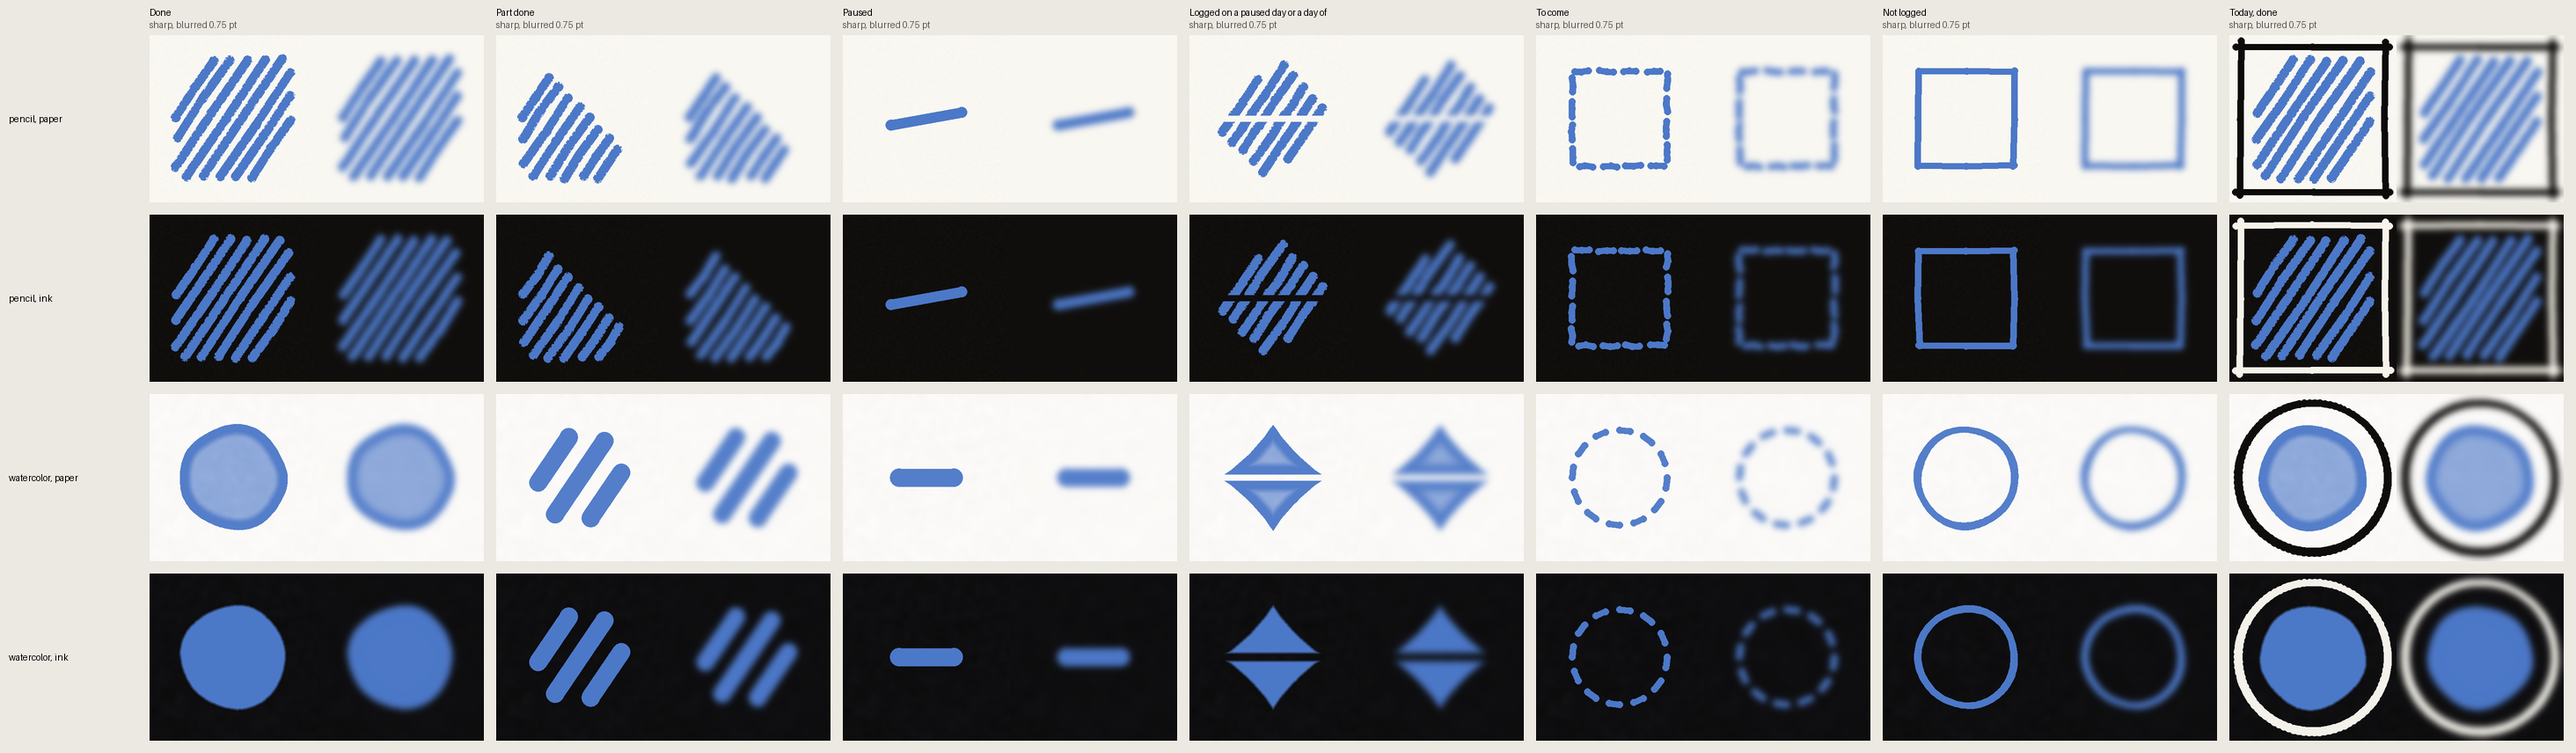
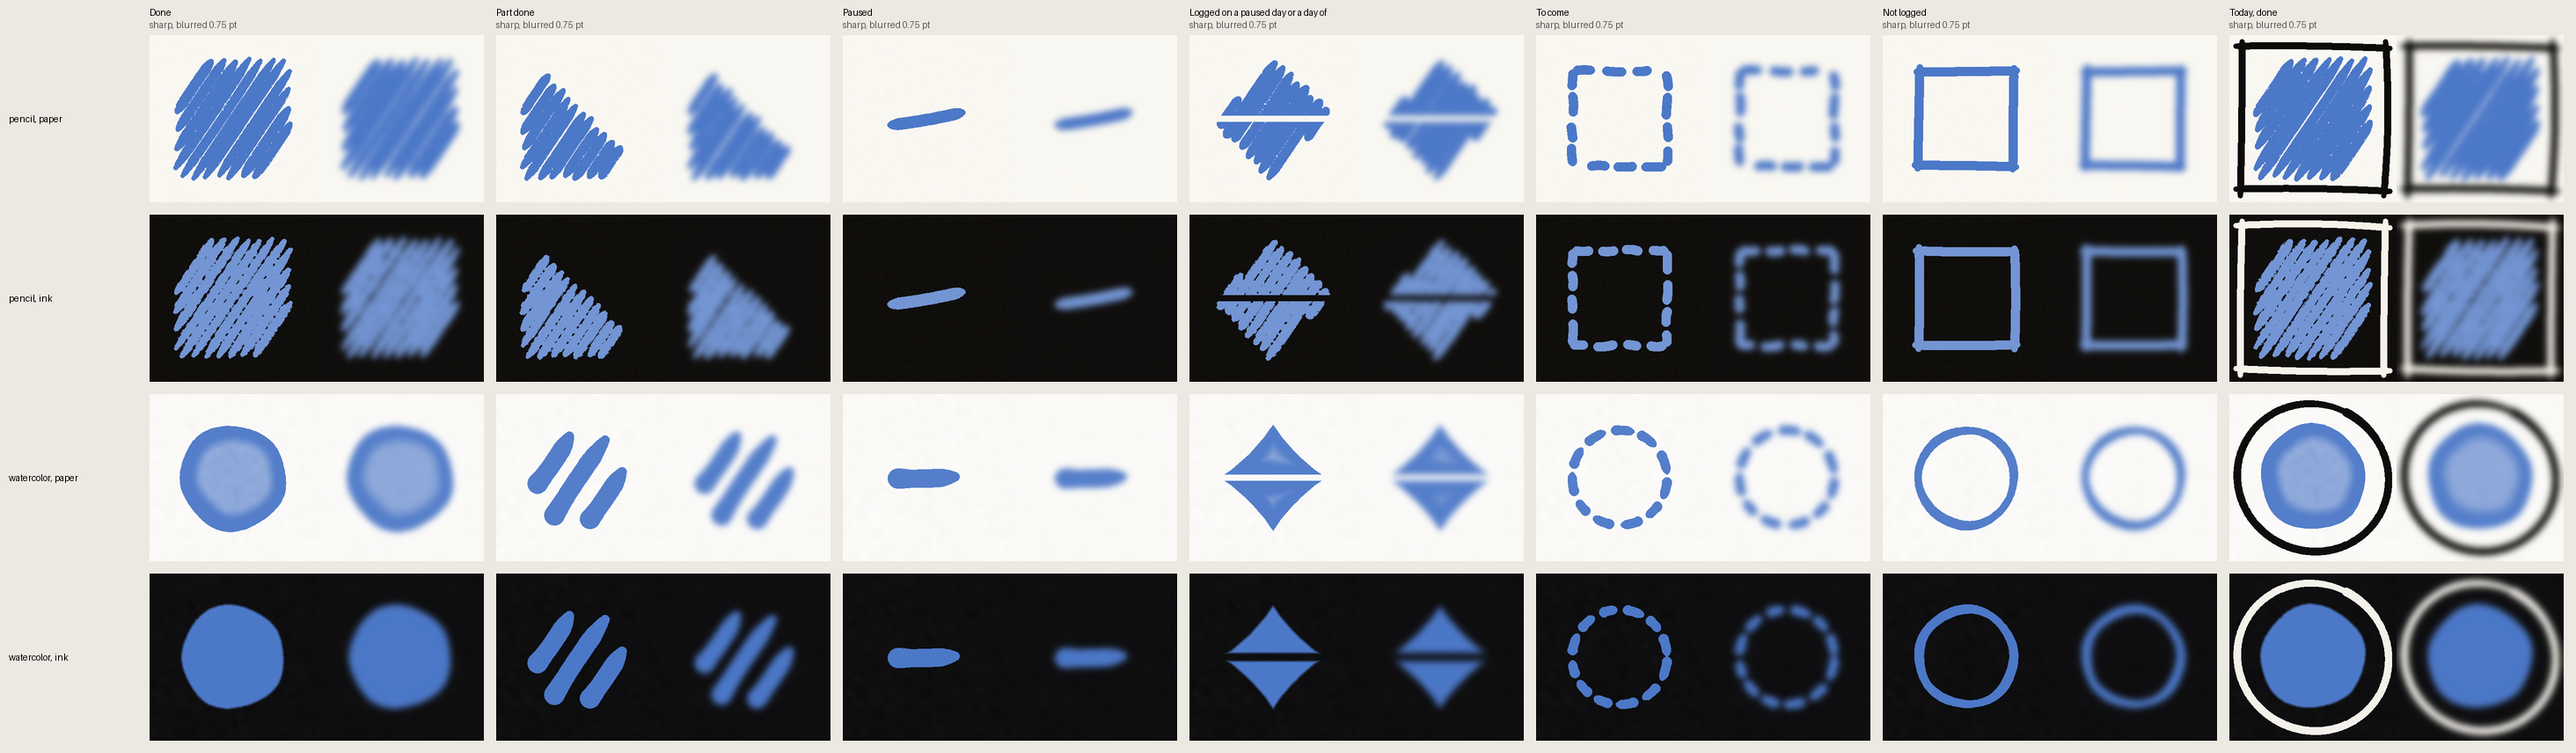
Second drawing of the full-size marks after both reviews
Pencil strokes touch and taper, Ink uses a lighter pencil with specks,
the Watercolor rim varies and grades into the wash, brush strokes pool
and lift. Adds blurred contrast, the today outline, ochre, yellow and
red to the measurements.

Claude-Session: https://claude.ai/code/session_012NdevCAvT4U8qS7nMJ64YM

diff --git a/tools/marks/full_marks.py b/tools/marks/full_marks.py
@@ -28,6 +28,19 @@ def mask(draw_fn):
     im = Image.new("L", (N, N), 0); draw_fn(ImageDraw.Draw(im)); return np.asarray(im, float) / 255
 def P(x, y): return (C + x * S, C + y * S)          # points from the centre of the mark, to pixels
 def line(d, x0, y0, x1, y1, w): d.line([P(x0, y0), P(x1, y1)], fill=255, width=max(1, round(w * S))); r = w * S / 2; [d.ellipse([px - r, py - r, px + r, py + r], fill=255) for px, py in (P(x0, y0), P(x1, y1))]
+def stamp(d, pts, width_at, steps=60):
+    """A stroke along a three-point path. width_at(t) gives its width in points, t from 0 to 1."""
+    (x0, y0), (x1, y1), (x2, y2) = pts
+    for i in range(steps + 1):
+        t = i / steps; x = (1 - t) ** 2 * x0 + 2 * t * (1 - t) * x1 + t * t * x2; y = (1 - t) ** 2 * y0 + 2 * t * (1 - t) * y1 + t * t * y2
+        r = width_at(t) * S / 2; px, py = P(x, y); d.ellipse([px - r, py - r, px + r, py + r], fill=255)
+def bowed(x0, y0, x1, y1, bow):
+    nx, ny = -(y1 - y0), x1 - x0; L = math.hypot(nx, ny) or 1
+    return [(x0, y0), ((x0 + x1) / 2 + nx / L * bow * 2, (y0 + y1) / 2 + ny / L * bow * 2), (x1, y1)]
+def taper(w, lo=0.45, run=0.14):          # a pencil stroke: thin where it lands and where it lifts
+    return lambda t: w * (lo + (1 - lo) * min(1, t / run, (1 - t) / run) ** 0.7)
+def brush(w):                              # a brush stroke: pooled where it starts, lifted where it ends
+    return lambda t: w * (1.12 - 0.12 * min(1, t / 0.2)) * (1 if t < 0.72 else 1 - 0.5 * ((t - 0.72) / 0.28) ** 1.5)
 def poly(d, pts): d.polygon([P(x, y) for x, y in pts], fill=255)
 H = SIZE / 2
 SQUARE = [(-H, -H), (H, -H), (H, H), (-H, H)]
@@ -35,6 +48,7 @@ LOWER = [(-H, -H), (-H, H), (H, H)]
 DIAMOND = [(0, -H), (H, 0), (0, H), (-H, 0)]
 CUT = 1.25
 tooth = gaussian_filter(rng.random((N, N)), 1.2); tooth = (tooth - tooth.min()) / (tooth.max() - tooth.min())
+speck = gaussian_filter(rng.random((N, N)), 2.6); speck = (speck - speck.min()) / (speck.max() - speck.min())   # charcoal specks, about half a point across
 dimple = gaussian_filter(rng.random((N, N)), 6); dimple = (dimple - dimple.min()) / (dimple.max() - dimple.min())
 
 # ---------- Pencil ----------
@@ -54,13 +68,13 @@ def clip_line(px, py, dx, dy, pts):
         else: t1 = min(t1, t)
     return (t0, t1) if t1 - t0 > 0.4 else None
 
-def pencil_strokes(shapes, n=8, cut=False):
+def pencil_strokes(shapes, n=11, cut=False):
     """Parallel strokes at 56 degrees, each drawn by hand: a little bowed, uneven in length, ends 1 to 2 points past the shape.
 
     Returns (alpha, core). The core is the solid middle of every stroke, at least 1.5 points wide.
     """
     dx, dy, nx, ny = math.cos(TH), -math.sin(TH), math.sin(TH), math.cos(TH)
-    pitch = SIZE * 1.06 / n; w = pitch / 1.5; core_w = max(1.5, w * 0.78)       # the gap is half a stroke, never wider than a stroke
+    pitch = SIZE * 1.04 / n; w = pitch; core_w = max(1.5, w * 0.8)              # strokes touch, so done blurs to a solid; the eroded edges still show each stroke
     segs = []
     for k in range(n):
         o = (k - (n - 1) / 2) * pitch + (rng.random() - 0.5) * 0.3; px, py = nx * o, ny * o
@@ -69,43 +83,43 @@ def pencil_strokes(shapes, n=8, cut=False):
             if not r: continue
             a, b = r[0] - 1 - rng.random(), r[1] + 1 + rng.random()             # the ends run 1 to 2 points past the shape
             bow = (rng.random() - 0.5) * 0.7; mid = (a + b) / 2
-            segs.append([(px + dx * a, py + dy * a), (px + dx * mid + nx * bow, py + dy * mid + ny * bow), (px + dx * b, py + dy * b)])
+            segs.append(([(px + dx * a, py + dy * a), (px + dx * mid + nx * bow, py + dy * mid + ny * bow), (px + dx * b, py + dy * b)], 0.92 + rng.random() * 0.16))
     def draw(width):
-        return mask(lambda d: [line(d, *q[0], *q[1], width) or line(d, *q[1], *q[2], width) for q in segs])
+        return mask(lambda d: [stamp(d, q, taper(width * press)) for q, press in segs])
     full, core = draw(w), draw(core_w)
     if cut:
         gap = 1 - mask(lambda d: poly(d, [(-H * 2, -CUT / 2), (H * 2, -CUT / 2), (H * 2, CUT / 2), (-H * 2, CUT / 2)])); full, core = full * gap, core * gap
-    edge = np.clip(full - core, 0, 1) * (tooth > 0.42)                          # the tooth erodes the edges only
+    edge = np.clip(full - core, 0, 1) * (tooth > 0.26)                          # the tooth erodes the edges only
     return np.clip(core + edge, 0, 1), core
 
 def hand_line(x0, y0, x1, y1, w=1.5):
     j = lambda: (rng.random() - 0.5) * 0.5
-    mx, my = (x0 + x1) / 2 + j(), (y0 + y1) / 2 + j()
-    return mask(lambda d: line(d, x0 + j(), y0 + j(), mx, my, w) or line(d, mx, my, x1 + j(), y1 + j(), w))
+    return mask(lambda d: stamp(d, bowed(x0 + j(), y0 + j(), x1 + j(), y1 + j(), (rng.random() - 0.5) * 0.5), taper(w, 0.7, 0.08)))
 
 def pencil(state):
     if state == "done": return pencil_strokes([SQUARE])
     if state == "part": return pencil_strokes([LOWER])
     if state == "diamond": return pencil_strokes([[(0, -H), (H, 0), (-H, 0)], [(H, 0), (0, H), (-H, 0)]], cut=True)
     if state == "paused":
-        a = math.radians(-10); L = SIZE * 0.34; m = mask(lambda d: line(d, -L * math.cos(a), -L * math.sin(a), L * math.cos(a), L * math.sin(a), 2.4)); return m, m
-    if state == "tocome":                                   # short hand-drawn dashes, 1.5 points, gaps of 2 points or more
+        a = math.radians(-10); L = SIZE * 0.34; m = mask(lambda d: stamp(d, bowed(-L * math.cos(a), -L * math.sin(a), L * math.cos(a), L * math.sin(a), 0.25), taper(2.6, 0.6, 0.1))); return m, m
+    if state == "tocome":                                   # short hand-drawn dashes of uneven length, 2 points, gaps of 2 points or more
         m = np.zeros((N, N)); q = H * 0.9
         for (ax, ay), (bx, by) in zip([(-q, -q), (q, -q), (q, q), (-q, q)], [(q, -q), (q, q), (-q, q), (-q, -q)]):
-            n = 4
-            for i in range(n):
-                t0, t1 = (i + 0.12) / n, (i + 0.12) / n + 3.2 / (2 * q)
-                m = np.maximum(m, hand_line(ax + (bx - ax) * t0, ay + (by - ay) * t0, ax + (bx - ax) * t1, ay + (by - ay) * t1))
+            t = 0.04
+            while t < 0.9:
+                ln = (2.6 + rng.random() * 1.8) / (2 * q); t1 = min(t + ln, 0.98)
+                m = np.maximum(m, hand_line(ax + (bx - ax) * t, ay + (by - ay) * t, ax + (bx - ax) * t1, ay + (by - ay) * t1, 2.0)); t = t1 + (2.2 + rng.random() * 0.8) / (2 * q)
         return m, m
     if state == "notlogged":
         q = H * 0.9; m = np.zeros((N, N))
-        for (ax, ay), (bx, by) in zip([(-q, -q), (q, -q), (q, q), (-q, q)], [(q, -q), (q, q), (-q, q), (-q, -q)]): m = np.maximum(m, hand_line(ax, ay, bx, by))
+        for (ax, ay), (bx, by) in zip([(-q, -q), (q, -q), (q, q), (-q, q)], [(q, -q), (q, q), (-q, q), (-q, -q)]): m = np.maximum(m, hand_line(ax - (bx - ax) * 0.03, ay - (by - ay) * 0.03, bx + (bx - ax) * 0.03, by + (by - ay) * 0.03, 2.0))
         return m, m
     return np.zeros((N, N)), np.zeros((N, N))
 
 def pencil_today():                                         # four strokes whose ends cross and overshoot each corner by 1 point
     q = H + 4.5; m = np.zeros((N, N))
-    for x0, y0, x1, y1 in [(-q - 1, -q, q + 1, -q), (q, -q - 1, q, q + 1), (q + 1, q, -q - 1, q), (-q, q + 1, -q, -q - 1)]: m = np.maximum(m, hand_line(x0, y0, x1, y1, 1.5))
+    for x0, y0, x1, y1 in [(-q - 1, -q, q + 1, -q + 0.5), (q, -q - 1, q - 0.4, q + 1), (q + 1, q, -q - 1, q - 0.5), (-q, q + 1, -q + 0.4, -q - 1)]:
+        m = np.maximum(m, mask(lambda d: stamp(d, bowed(x0, y0, x1, y1, (rng.random() - 0.5) * 1.6), taper(1.5, 0.75, 0.06))))
     return m
 
 # ---------- Watercolor ----------
@@ -123,12 +137,16 @@ def diamond_pts(curve=0.1):
     return pts
 
 def wash(shape, ink):
-    """Paper: the rim is 1.5 points at full strength, then falls over 1.75 points with no inner line. The inside is 60% of rim strength or more.
+    """Paper: the rim is at full strength for 1.5 to 2.6 points, wider on one side as the colour pools, then grades
+    into the wash over 3 points with no inner line. The inside is 60% of rim strength or more, never bare paper.
     Ink: opaque paint, flat, no rim, with an edge uneven from the brush."""
     inside = distance_transform_edt(shape > 0.5) / S       # points from the edge
     if ink: return np.clip(inside / 0.6, 0, 1) * (shape > 0.5), (inside > 1.0)
-    t = np.clip(1 - (inside - 1.5) / 1.75, 0, 1); rimness = t * t * (3 - 2 * t)      # 1.5 points at full strength, then a soft fall
-    alpha = (0.62 + 0.06 * dimple) + (1 - 0.62 - 0.06 * dimple) * rimness
+    yy, xx = np.mgrid[0:N, 0:N]; ang = np.arctan2(yy - C, xx - C)
+    rim_w = 1.5 + 0.55 * (1 + np.sin(ang - 0.9)) + 0.25 * np.sin(3 * ang + 1.3).clip(0)      # pools low and to one side
+    t = np.clip(1 - (inside - rim_w) / 3.0, 0, 1); rimness = t * t * (3 - 2 * t)
+    base = 0.62 + 0.07 * dimple
+    alpha = base + (1 - base) * rimness
     return alpha * (shape > 0.5), (shape > 0.5) & (inside <= 1.5) & (inside >= 0.3)
 
 def water(state, ink=False):
@@ -137,34 +155,34 @@ def water(state, ink=False):
     if state == "diamond":
         sh = wobble_shape(diamond_pts) * (1 - mask(lambda d: poly(d, [(-H * 2, -CUT / 2), (H * 2, -CUT / 2), (H * 2, CUT / 2), (-H * 2, CUT / 2)])))
         return wash(sh, ink)
-    if state == "part":                                     # three brush strokes at full strength throughout
+    if state == "part":                                     # three brush strokes at full strength, each pooled at its start and lifted at its end
         dx, dy, nx, ny = math.cos(TH), -math.sin(TH), math.sin(TH), math.cos(TH); w = SIZE * 0.17
-        m = mask(lambda d: [line(d, nx * o - dx * L, ny * o - dy * L, nx * o + dx * L, ny * o + dy * L, w) for o, L in ((-SIZE * 0.3, SIZE * 0.26), (0, SIZE * 0.42), (SIZE * 0.3, SIZE * 0.26))])
+        m = mask(lambda d: [stamp(d, bowed(nx * o - dx * L, ny * o - dy * L, nx * o + dx * L, ny * o + dy * L, b), brush(w)) for o, L, b in ((-SIZE * 0.3, SIZE * 0.27, 0.3), (0, SIZE * 0.43, -0.25), (SIZE * 0.3, SIZE * 0.27, 0.2))])
         return m, m > 0.99
     if state == "paused":
-        m = mask(lambda d: line(d, -SIZE * 0.26, 0, SIZE * 0.26, 0, SIZE * 0.17)); return m, m > 0.99
-    if state == "tocome":                                   # a ring of short dabs, 1.5 points, gaps of 2 points or more
-        r = R * 0.9; n = 12; m = np.zeros((N, N))
-        for i in range(n):
-            a0 = 2 * math.pi * i / n; a1 = a0 + 2.4 / r
-            m = np.maximum(m, mask(lambda d: line(d, r * math.cos(a0), r * math.sin(a0), r * math.cos(a1), r * math.sin(a1), 1.5)))
+        m = mask(lambda d: stamp(d, bowed(-SIZE * 0.27, 0.2, SIZE * 0.27, -0.2, 0.2), brush(SIZE * 0.17))); return m, m > 0.99
+    if state == "tocome":                                   # a ring of short dabs of uneven length, 2 points, gaps of 2 points or more
+        r = R * 0.9; m = np.zeros((N, N)); a0 = 0.1
+        while a0 < 2 * math.pi - 0.3:
+            a1 = a0 + (2.4 + rng.random() * 1.6) / r
+            m = np.maximum(m, mask(lambda d: stamp(d, [(r * math.cos(a0), r * math.sin(a0)), (r * 1.01 * math.cos((a0 + a1) / 2), r * 1.01 * math.sin((a0 + a1) / 2)), (r * math.cos(a1), r * math.sin(a1))], brush(2.0), 20)))
+            a0 = a1 + (2.3 + rng.random() * 0.8) / r
         return m, m > 0.99
     if state == "notlogged":                                # one thin closed ring at the done mark's size
-        o = wobble_shape(lambda: disc_pts(R * 0.98, 0.02)); i = wobble_shape(lambda: disc_pts(R * 0.98 - 1.6, 0.02)); m = np.clip(o - i, 0, 1); return m, m > 0.99
+        o = wobble_shape(lambda: disc_pts(R * 0.98, 0.02)); i = wobble_shape(lambda: disc_pts(R * 0.98 - 2.0, 0.03)); m = np.clip(o - i, 0, 1); return m, m > 0.99
     return np.zeros((N, N)), np.zeros((N, N), bool)
 
-def water_today():                                          # a brushed ring with a visible start and end, gap of 1 point at most
-    r = H + 5; m = np.zeros((N, N)); n = 90; gap = 0.9 / r
-    for i in range(n):
-        a0 = -1.2 + gap + (2 * math.pi - gap) * i / n; a1 = -1.2 + gap + (2 * math.pi - gap) * (i + 1) / n; w = 1.5 + 0.5 * math.sin(i / n * math.pi)
-        m = np.maximum(m, mask(lambda d: line(d, r * math.cos(a0), r * math.sin(a0), r * math.cos(a1), r * math.sin(a1), w)))
-    return m
+def water_today():                                          # one brushed ring: pooled where it starts, thin where it lifts, gap of 1 point at most
+    r = H + 5; n = 120; gap = 0.9 / r; start = -1.15
+    def at(i): a = start + gap + (2 * math.pi - gap) * i / n; rr = r + 0.35 * math.sin(a * 2 + 0.6); return rr * math.cos(a), rr * math.sin(a)
+    def width(i): t = i / n; return 1.5 + 0.4 * max(0, 1 - t / 0.1) + 0.15 * math.sin(t * math.pi) - 0.3 * max(0, (t - 0.88) / 0.12)
+    return mask(lambda d: [stamp(d, [at(i), at(i + 0.5), at(i + 1)], (lambda t, w=width(i): w), 4) for i in range(n)])
 
 # ---------- compose and measure ----------
 STATES = [("done", "Done"), ("part", "Part done"), ("paused", "Paused"), ("diamond", "Logged on a paused day or a day off"), ("tocome", "To come"), ("notlogged", "Not logged"), ("today", "Today, done")]
 
 def papers(style, ap):
-    t = TOK["styles"][style][ap]; paper = hexrgb(t["paper"]); g = t["grain"]; grain = hexrgb(g["color"])
+    t = TOK["styles"][style][ap]; paper = hexrgb(t["paper"]); g = t.get("grain") or {"color": t["paper"], "maxAlpha": 0.0}; grain = hexrgb(g["color"])
     worst = paper * (1 - g["maxAlpha"]) + grain * g["maxAlpha"] if ap == "paper" else paper      # the pixel marks contrast least against
     tex = (tooth if style == "pencil" else dimple)[..., None]
     field = paper * (1 - g["maxAlpha"] * tex) + grain * g["maxAlpha"] * tex
@@ -177,7 +195,9 @@ def render(style, ap, state, accent):
     if state == "today": a, core = fn("done"); ring = pencil_today() if style == "pencil" else water_today()
     else: a, core = fn(state); ring = None
     a = a * strength
-    if style == "pencil" and ink: a = a * np.where((tooth < 0.2) & (core < 0.5), 0.0, 1.0)      # charcoal specks at the edges and between strokes
+    if style == "pencil" and ink:
+        accent = accent + (1 - accent) * 0.22                                   # the same hue as a lighter pencil
+        a = a * np.where((speck < 0.42) & (np.asarray(core) < 0.5), 0.0, 1.0)   # charcoal specks at the edges and between strokes; the core stays solid
     img = field * (1 - a[..., None]) + accent * a[..., None]
     if ring is not None: img = img * (1 - ring[..., None]) + text * ring[..., None]
     core = np.asarray(core) > 0.5
@@ -187,6 +207,45 @@ def render(style, ap, state, accent):
         ls = lum(drawn); lw = float(lum(worst[None])[0]); cr = min(ratio(float(l), lw) for l in (ls.min(), ls.max()))
     else: cr = float("nan")
     return img, cr
+
+def solve(base, worst, strength, ink):
+    """The nearest shade of a hue that holds 3:1 as drawn: darker on Paper, lighter on Ink."""
+    lw = float(lum(worst[None])[0])
+    for k in np.linspace(0, 1, 201):
+        c = base + (1 - base) * k if ink else base * (1 - k)
+        if ratio(float(lum((c * strength + worst * (1 - strength))[None])[0]), lw) >= 3.0: return c, k
+    return c, 1.0
+
+def measures():
+    """The numbers the accessibility review asked for beyond the first table."""
+    blue = hexrgb(TOK["swatches"]["blue"]); g = lambda im: lum(gaussian_filter(im, sigma=(0.75 * S, 0.75 * S, 0)))
+    print("\nAfter a blur of 0.75 points, lowest contrast inside the mark, and the today outline as drawn:")
+    print(f"{'style':11} {'paper':6} {'done':>6} {'diamond':>8} {'to come':>8} {'not logged':>11} {'today outline':>14}")
+    yy, xx = np.mgrid[0:N, 0:N]
+    for style in ("pencil", "watercolor"):
+        for ap in ("paper", "ink"):
+            field, worst, text = papers(style, ap); lw = float(lum(worst[None])[0]); out = []
+            inner = (np.abs(xx - C) < (H - 3.5) * S) & (np.abs(yy - C) < (H - 3.5) * S) if style == "pencil" else ((xx - C) ** 2 + (yy - C) ** 2 < ((H - 3.5) * S) ** 2)
+            b = g(render(style, ap, "done", blue)[0]); out.append(min(ratio(float(v), lw) for v in (b[inner].min(), b[inner].max())))
+            b = g(render(style, ap, "diamond", blue)[0]); tri = (np.abs(xx - C) + np.abs(yy - C) < (H - 4) * S) & (np.abs(yy - C) > 2.2 * S)
+            out.append(min(ratio(float(v), lw) for v in (b[tri].min(), b[tri].max())))
+            for st in ("tocome", "notlogged"):
+                b = g(render(style, ap, st, blue)[0]); out.append(max(ratio(float(v), lw) for v in (b.min(), b.max())))
+            out.append(ratio(float(lum(text[None])[0]), lw))
+            print(f"{style:11} {ap:6} {out[0]:>6.2f} {out[1]:>8.2f} {out[2]:>8.2f} {out[3]:>11.2f} {out[4]:>14.2f}")
+    print("\nOther colours as drawn, on the solid part of a mark. Custom hues are shaded until they hold 3:1:")
+    print(f"{'style':11} {'paper':6} {'ochre swatch':>13} {'yellow, raw':>12} {'yellow, shaded':>15} {'red, raw':>9} {'red, shaded':>12}")
+    for style in ("penAndInk", "pencil", "watercolor"):
+        for ap in ("paper", "ink"):
+            field, worst, text = papers(style, ap); lw = float(lum(worst[None])[0]); ink = ap == "ink"
+            strength = TOK["markAlpha"][style] if not (style == "watercolor" and ink) else 1.0
+            cr = lambda c: ratio(float(lum((c * strength + worst * (1 - strength))[None])[0]), lw)
+            row = [cr(hexrgb(TOK["swatches"]["ochre"]))]
+            for raw in ("#F5C400", "#D92B1F"):
+                c = hexrgb(raw); sc, k = solve(c, worst, strength, ink); row += [cr(c), cr(sc)]
+                if style == "penAndInk": row[-1] = (row[-1], "#%02X%02X%02X" % tuple(int(round(v * 255)) for v in sc))
+            f = lambda v: (f"{v[0]:.2f} {v[1]}" if isinstance(v, tuple) else f"{v:.2f}")
+            print(f"{style:11} {ap:6} {f(row[0]):>13} {f(row[1]):>12} {f(row[2]):>15} {f(row[3]):>9} {f(row[4]):>12}")
 
 def main(out):
     font = ImageFont.load_default(); accent = hexrgb(TOK["swatches"]["blue"])
@@ -203,7 +262,7 @@ def main(out):
             bl = Image.fromarray((np.clip(gaussian_filter(img, sigma=(0.75 * S, 0.75 * S, 0)), 0, 1) * 255).astype("uint8")).resize((cell, cell), Image.LANCZOS)
             x = lab + ci * (2 * cell + pad); sheet.paste(sharp, (x, y)); sheet.paste(bl, (x + cell, y))
         print(f"{style:11} {ap:6} " + " ".join(f"{c:>11.2f}" for c in crs[:6]))
-    sheet.save(out); print(sheet.size)
+    sheet.save(out); print(sheet.size); measures()
 
 if __name__ == "__main__":
     main(sys.argv[1] if len(sys.argv) > 1 else "m4-marks.png")

diff --git a/docs/m4-marks.md b/docs/m4-marks.md
@@ -1,0 +1,29 @@
+# Full-size marks, as measured
+
+Printed by `python3 tools/marks/full_marks.py docs/mockups/png/m4-marks.png` on 16 November 2026, second drawing. Blue swatch unless a column says otherwise. The first table is each mark as drawn against the worst pixel of its paper.
+
+```
+style       paper         Done   Part done      Paused Logged on a     To come  Not logged
+pencil      paper         3.97        3.97        3.97        3.97        3.97        3.97
+pencil      ink           6.21        6.21        6.21        6.21        6.21        6.21
+watercolor  paper         3.74        3.74        3.74        3.74        3.74        3.74
+watercolor  ink           4.30        4.30        4.30        4.30        4.30        4.30
+
+After a blur of 0.75 points, lowest contrast inside the mark, and the today outline as drawn:
+style       paper    done  diamond  to come  not logged  today outline
+pencil      paper    2.73     2.85     3.26        3.54          17.95
+pencil      ink      3.96     4.12     5.27        5.40          16.74
+watercolor  paper    2.16     2.70     2.96        3.18          18.14
+watercolor  ink      4.30     3.97     3.42        3.64          16.59
+
+Other colours as drawn, on the solid part of a mark. Custom hues are shaded until they hold 3:1:
+style       paper   ochre swatch  yellow, raw  yellow, shaded  red, raw  red, shaded
+penAndInk   paper           3.67         1.57    3.01 #B08D00      4.66 4.66 #D92B1F
+penAndInk   ink             4.88        11.38   11.38 #F5C400      3.84 3.84 #D92B1F
+pencil      paper           3.50         1.50            3.03      4.44         4.44
+pencil      ink             4.84        11.28           11.28      3.81         3.81
+watercolor  paper           3.32         1.51            3.02      4.32         4.32
+watercolor  ink             4.88        11.39           11.39      3.85         3.85
+```
+
+Yellow is far under 3:1 on every light paper when raw (about 1.5) and is shaded to a dark ochre to hold 3:1. Red passes raw on every paper.
